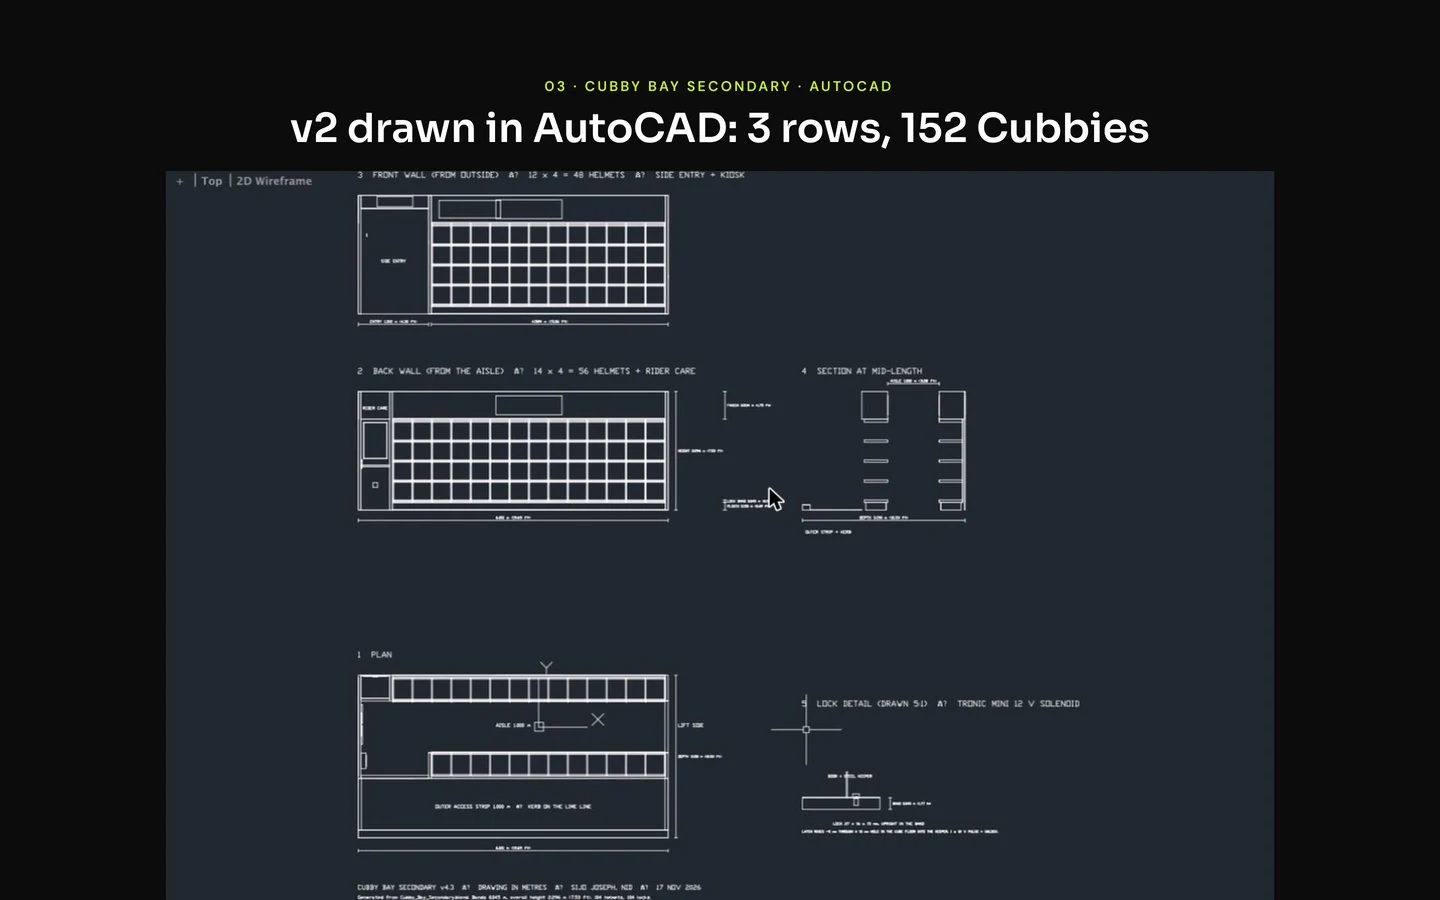
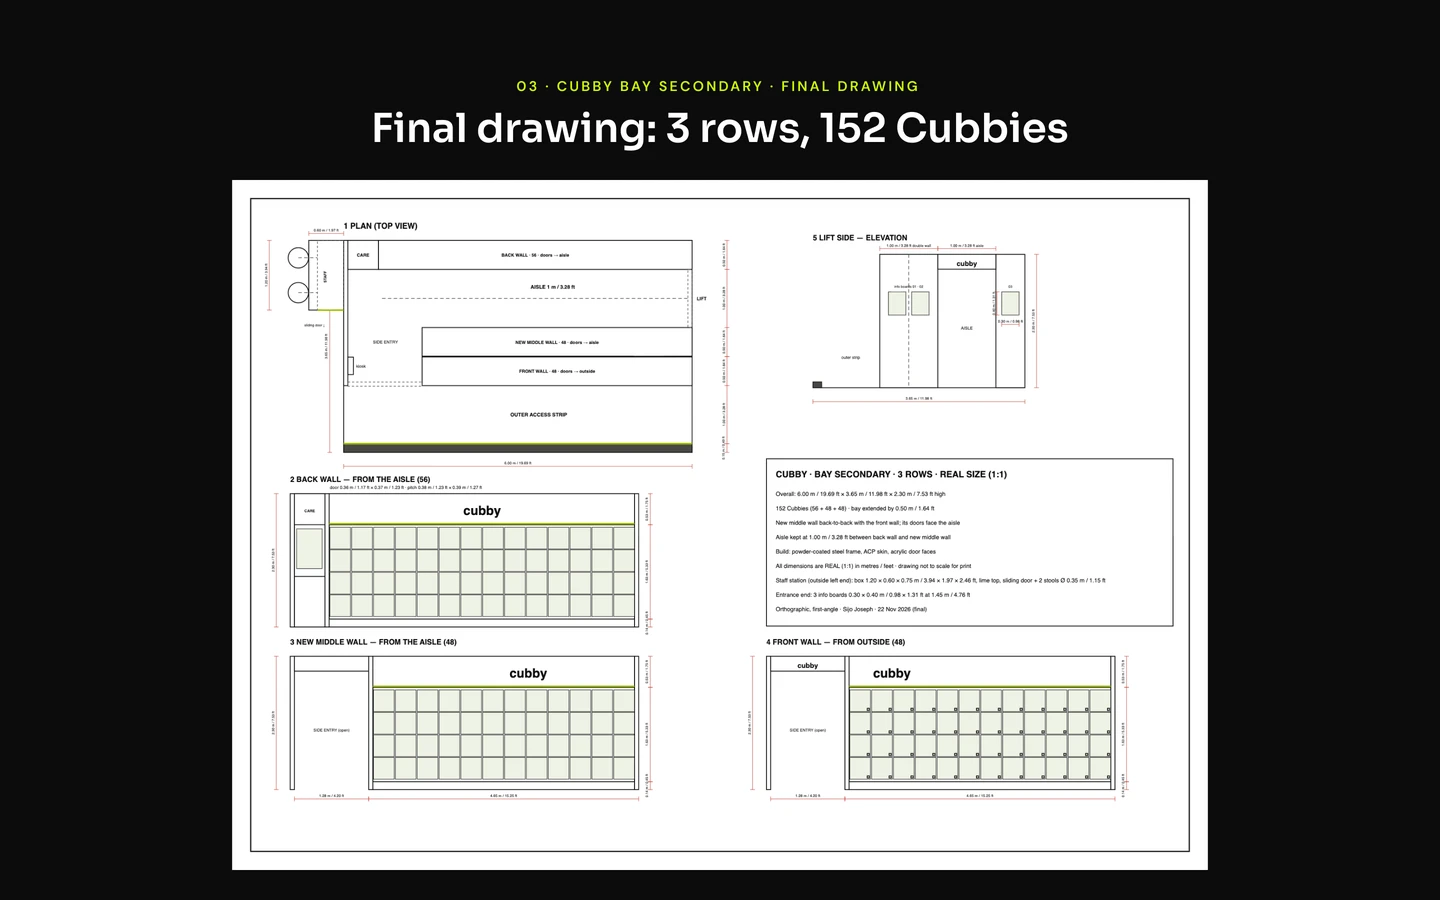
Cubby: final 3-row drawing on the drawing slide; in-store journey moved after the 3D bay

diff --git a/cubby/index.html b/cubby/index.html
@@ -47,7 +47,6 @@ mv.addEventListener("camera-change",e=>{if(e.detail.source==="user-interaction")
 <section class="slide"><img data-src="c15.webp?v=3" data-srcset="c15.webp?v=3 1440w, c15@2x.webp?v=3 2880w" sizes="100vw" alt="Cubby slide 15"></section>
 <section class="slide"><img data-src="c16.webp?v=3" data-srcset="c16.webp?v=3 1440w, c16@2x.webp?v=3 2880w" sizes="100vw" alt="Cubby slide 16"></section>
 <section class="slide"><img data-src="c17.webp?v=3" data-srcset="c17.webp?v=3 1440w, c17@2x.webp?v=3 2880w" sizes="100vw" alt="Cubby slide 17"></section>
-<section class="slide"><img data-src="c18.webp?v=3" data-srcset="c18.webp?v=3 1440w, c18@2x.webp?v=3 2880w" sizes="100vw" alt="Cubby slide 18"></section>
 <section class="slide"><img data-src="c19.webp?v=3" data-srcset="c19.webp?v=3 1440w, c19@2x.webp?v=3 2880w" sizes="100vw" alt="Cubby slide 19"></section>
 <section class="slide"><img data-src="c20.webp?v=3" data-srcset="c20.webp?v=3 1440w, c20@2x.webp?v=3 2880w" sizes="100vw" alt="Cubby slide 20"></section>
 <section class="slide"><img data-src="c21.webp?v=3" data-srcset="c21.webp?v=3 1440w, c21@2x.webp?v=3 2880w" sizes="100vw" alt="Cubby slide 21"></section>
@@ -79,12 +78,13 @@ mv.addEventListener("camera-change",e=>{if(e.detail.source==="user-interaction")
 <section class="slide"><img data-src="c47.webp?v=3" data-srcset="c47.webp?v=3 1440w, c47@2x.webp?v=3 2880w" sizes="100vw" alt="Cubby slide 47"></section>
 <section class="slide"><img data-src="c48.webp?v=3" data-srcset="c48.webp?v=3 1440w, c48@2x.webp?v=3 2880w" sizes="100vw" alt="Cubby slide 48"></section>
 <section class="slide"><img data-src="c49.webp?v=3" data-srcset="c49.webp?v=3 1440w, c49@2x.webp?v=3 2880w" sizes="100vw" alt="Cubby slide 49"></section>
-<section class="slide"><img data-src="c50.webp?v=3" data-srcset="c50.webp?v=3 1440w, c50@2x.webp?v=3 2880w" sizes="100vw" alt="Cubby slide 50"></section>
+<section class="slide"><img data-src="c50.webp?v=5" data-srcset="c50.webp?v=5 1440w, c50@2x.webp?v=5 2880w" sizes="100vw" alt="Cubby slide 50"></section>
 <section class="slide"><img data-src="c51.webp?v=3" data-srcset="c51.webp?v=3 1440w, c51@2x.webp?v=3 2880w" sizes="100vw" alt="Cubby slide 51"></section>
 <section class="slide bay3d" id="bay3d"><div class="b3-head"><p class="b3-eye">THE FINAL OUTPUT</p><h2>Cubby Bay</h2><p class="b3-sub">152 Cubbies · 3 rows · 1 m aisle · rider care · staff station · 6.0 × 3.65 × 2.3 m</p></div>
 <div class="b3-glow"></div>
 <model-viewer id="bay" src="3d/cubby_bay.glb?v=9" alt="Interactive 3D model of the Cubby Bay: 152 Cubbies in three rows around a 1 m aisle" camera-controls disable-zoom disable-pan auto-rotate auto-rotate-delay="2500" rotation-per-second="14deg" interaction-prompt="none" camera-orbit="-38deg 68deg auto" field-of-view="26deg" exposure="1" shadow-intensity="0.6" shadow-softness="1" environment-image="neutral" tone-mapping="aces" loading="eager" reveal="auto"></model-viewer>
 <p class="b3-hint">Drag to rotate 360°</p></section>
+<section class="slide"><img data-src="c18.webp?v=3" data-srcset="c18.webp?v=3 1440w, c18@2x.webp?v=3 2880w" sizes="100vw" alt="Cubby slide 18"></section>
 <section class="slide"><img data-src="c53.webp?v=3" data-srcset="c53.webp?v=3 1440w, c53@2x.webp?v=3 2880w" sizes="100vw" alt="Cubby slide 53"></section>
 <section class="slide"><img data-src="c54.webp?v=3" data-srcset="c54.webp?v=3 1440w, c54@2x.webp?v=3 2880w" sizes="100vw" alt="Cubby slide 54"></section>
 <section class="slide"><img data-src="c55.webp?v=3" data-srcset="c55.webp?v=3 1440w, c55@2x.webp?v=3 2880w" sizes="100vw" alt="Cubby slide 55"></section>
